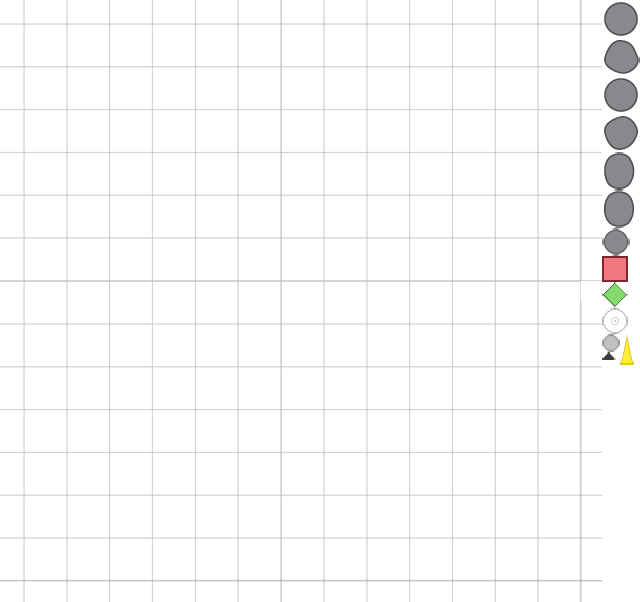
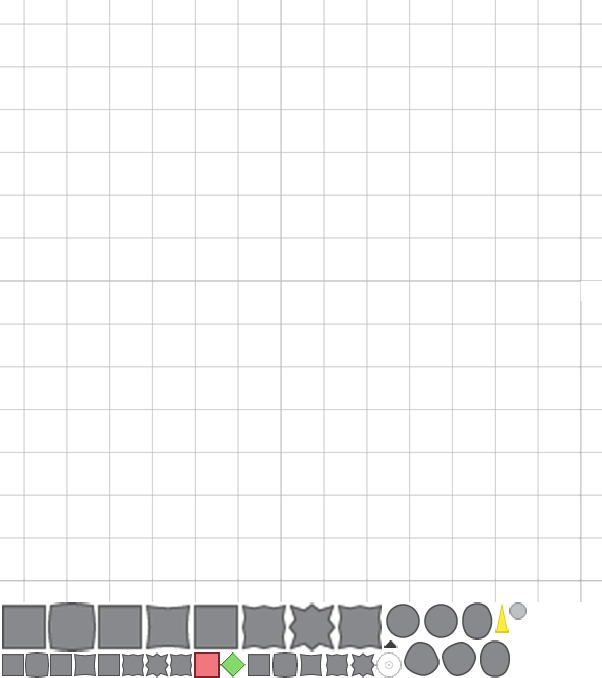
Enemies: spritesheet -> texture atlas

Changed region(s): [[0.0, 0.0, 1.0, 1.0], [0.1495, 0.1495, 0.2691, 0.3588], [0.7475, 0.1495, 0.7774, 0.3289]]

diff --git a/src/js/game-objects/wander-enemy.js b/src/js/game-objects/wander-enemy.js
@@ -9,10 +9,9 @@ SeekerEnemy.prototype = Object.create(Phaser.Sprite.prototype);
 SeekerEnemy.prototype.constructor = SeekerEnemy;
 
 function SeekerEnemy(game, x, y, parentGroup, target) {
-    // *** REMOVE AND UNCOMMENT BELOW FOR SPRITESHEET
-    Phaser.Sprite.call(this, game, x, y, "enemyAnim2");
-    // Phaser.Sprite.call(this, game, x, y, "assets", "enemy-2/move-01");
+    Phaser.Sprite.call(this, game, x, y, "assets", "enemy/move-01");
     this.anchor.set(0.5);
+    this.scale.set(2);
     parentGroup.add(this);
     
     // Give the sprite a random tint
@@ -21,11 +20,9 @@ function SeekerEnemy(game, x, y, parentGroup, target) {
     this.tint = Phaser.Color.getColor(rgb.r, rgb.g, rgb.b);
 
     // Setup animations
-    var moveFrames = Phaser.Animation.generateFrameNames("player/idle-", 1, 4, 
+    var moveFrames = Phaser.Animation.generateFrameNames("enemy/idle-", 1, 4, 
         "", 2);
-    // *** REMOVE AND UNCOMMENT BELOW FOR SPRITESHEET
-    this.animations.add(ANIM_NAMES.MOVE, [0,1,2,3], 10, true);
-    // this.animations.add(ANIM_NAMES.MOVE, moveFrames, 10, true);
+    this.animations.add(ANIM_NAMES.MOVE, moveFrames, 10, true);
     this.animations.play(ANIM_NAMES.MOVE);
 
     // variables for random movement toward player

diff --git a/src/js/game-objects/seeker-enemy.js b/src/js/game-objects/seeker-enemy.js
@@ -10,9 +10,7 @@ SeekerEnemy.prototype = Object.create(Phaser.Sprite.prototype);
 SeekerEnemy.prototype.constructor = SeekerEnemy;
 
 function SeekerEnemy(game, x, y, parentGroup, target) {
-    // *** REMOVE AND UNCOMMENT BELOW FOR SPRITESHEET
-    Phaser.Sprite.call(this, game, x, y, "enemyAnim");
-    // Phaser.Sprite.call(this, game, x, y, "assets", "enemy/idle-01");
+    Phaser.Sprite.call(this, game, x, y, "assets", "enemy/idle-01");
     this.anchor.set(0.5);
     parentGroup.add(this);
     
@@ -26,11 +24,8 @@ function SeekerEnemy(game, x, y, parentGroup, target) {
         "", 2);
     var moveFrames = Phaser.Animation.generateFrameNames("enemy/move-", 1, 4, 
         "", 2);
-    // *** REMOVE AND UNCOMMENT BELOW FOR SPRITESHEET
-    this.animations.add(ANIM_NAMES.IDLE, [0,1,2,3], 10, true);
-    this.animations.add(ANIM_NAMES.MOVE, [4,5,6,7], 10, true);
-    // this.animations.add(ANIM_NAMES.IDLE, idleFrames, 10, true);
-    // this.animations.add(ANIM_NAMES.MOVE, moveFrames, 10, true);
+    this.animations.add(ANIM_NAMES.IDLE, idleFrames, 10, true);
+    this.animations.add(ANIM_NAMES.MOVE, moveFrames, 10, true);
     this.animations.play(ANIM_NAMES.IDLE);
 
     this._target = target;
